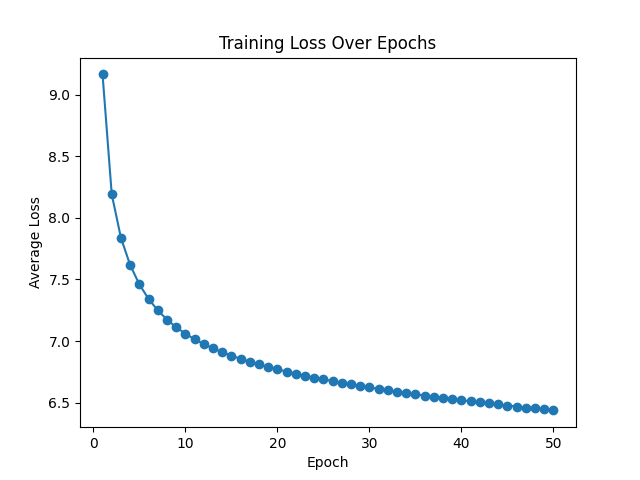
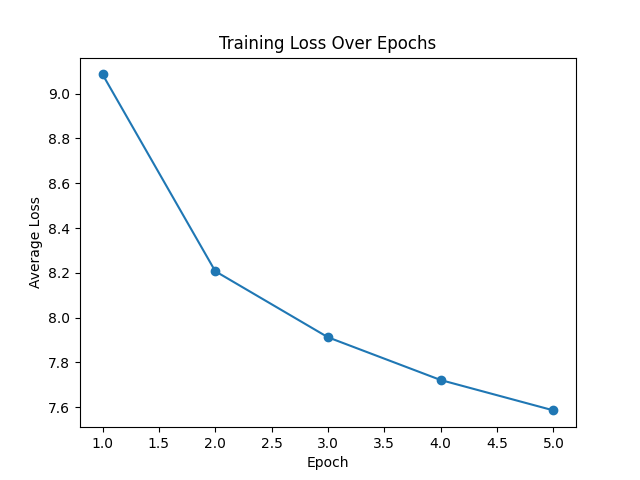
one gpu

diff --git a/models/cbow.py b/models/cbow.py
@@ -1,12 +1,13 @@
 import sys
 import os
+import time  # For tracking training time
 import numpy as np
 import torch
 import torch.nn as nn
 import torch.optim as optim
 from torch.utils.data import DataLoader, Dataset
-from tqdm import tqdm  # For progress bars
-import matplotlib.pyplot as plt  # For plotting loss
+from tqdm import tqdm
+import matplotlib.pyplot as plt
 from datasets import load_dataset
 
 # Ensure imports work correctly
@@ -68,6 +69,7 @@ def train_cbow_model(model, data_loader, num_epochs, learning_rate=0.01, device=
     optimizer = optim.SGD(model.parameters(), lr=learning_rate)
 
     losses = []  # List to track losses for each epoch
+    start_time = time.time()  # Start tracking time
 
     for epoch in range(num_epochs):
         total_loss = 0
@@ -88,6 +90,10 @@ def train_cbow_model(model, data_loader, num_epochs, learning_rate=0.01, device=
         avg_loss = total_loss / len(data_loader)
         losses.append(avg_loss)  # Track the average loss for this epoch
         print(f"Epoch {epoch + 1}, Average Loss: {avg_loss}")
+
+    end_time = time.time()  # End tracking time
+    total_training_time = end_time - start_time
+    print(f"Total training time: {total_training_time:.2f} seconds")
 
     # Save and plot training loss
     os.makedirs("loss_plots", exist_ok=True)
@@ -125,7 +131,7 @@ if __name__ == "__main__":
     tokenized_data = [vocab.encode(sentence) for sentence in tqdm(preprocessed_data, desc="Tokenizing data")]
 
     # Generate CBOW data
-    window_size = 2
+    window_size = 5
     cbow_data = generate_cbow_data(tokenized_data, window_size)
 
     # Prepare DataLoader
@@ -134,7 +140,7 @@ if __name__ == "__main__":
 
     # Initialize and train CBOW model
     embedding_dim = 100
-    num_epochs = 50
+    num_epochs = 5
     device = torch.device("cuda" if torch.cuda.is_available() else "cpu")
     print(f"Using device: {device}")
     model = CBOWModel(vocab_size=len(vocab), embedding_dim=embedding_dim).to(device)
